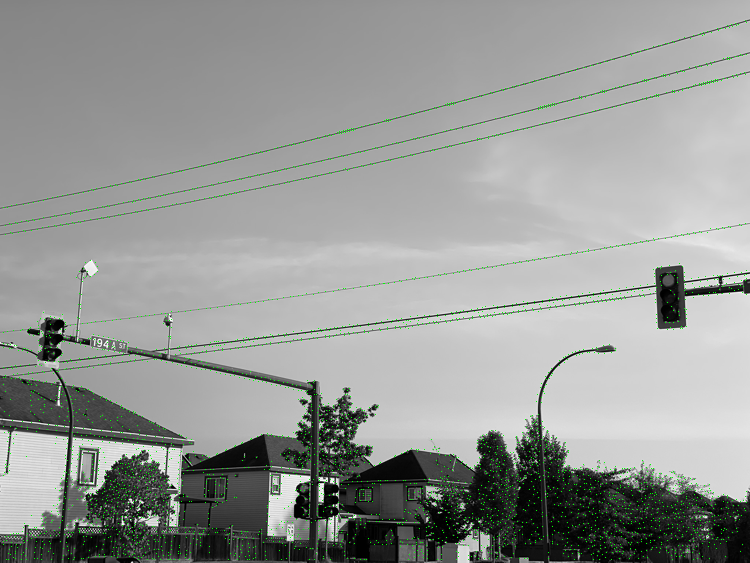
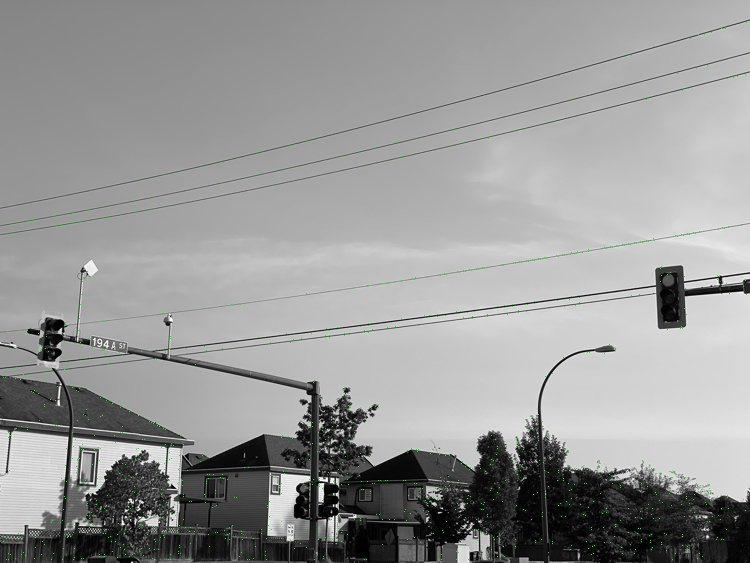
Given up on harris detection

diff --git a/A2/A2.m b/A2/A2.m
@@ -135,11 +135,11 @@ close all
         FASTRarr = {12};
     %Our array of FASTR visualizations
         FASTRarrVIS = {12};
+    %Our harris threshold
+        threshold = 0.005;
     %compute harris for all fast images
     for i=1:length(FASTarr)
         tic;
-        %Our harris threshold
-            threshold = 0.001;
         %Compute derivative of all fast images
             ix = imfilter(FASTarr{i}, dog);
             iy = imfilter(FASTarr{i}, dog');
@@ -147,7 +147,7 @@ close all
             ix2g = imfilter(ix .* ix, gaus);
             iy2g = imfilter(iy .* iy, gaus);
             ixiyg = imfilter(ix .* iy, gaus);
-        %Compute cornerness function
+         %Compute cornerness function
             harcor = ix2g .*iy2g - ixiyg .* ixiyg - 0.05 * (ix2g + iy2g).^2;
         %Non-maxima suppression
             localmax = imdilate(harcor, ones(3));
@@ -248,6 +248,9 @@ close all
         showMatchedFeatures(rgb2gray(allImArr{3}),rgb2gray(allImArr{4}),S2matchedPoints1,S2matchedPoints2,"montag",Parent=axes);
         figure;
         showMatchedFeatures(rgb2gray(allImArr{3}),rgb2gray(allImArr{4}),S2matchedPoints1R,S2matchedPoints2R,"montag",Parent=axes);
+
+%Part 5
+
 
 %Define our function
 function [corners, visual] = my_fast_detector(image, thresholdDetect, thresholdMaxima, N)
